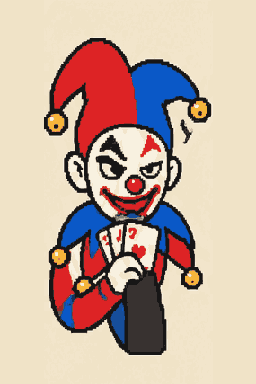
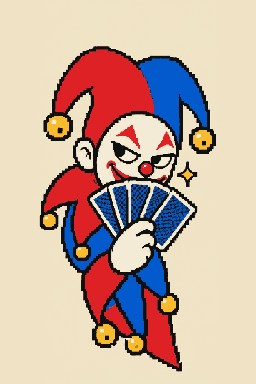
T-020 약삭빠른 조커 그림 교체 (조커 15종 모두 고해상도)

diff --git a/docs/progress.md b/docs/progress.md
@@ -110,6 +110,7 @@ npm run build      배포용 빌드 (dist/)
 | 2026-10-21 | T-027 | Claude | 카드 강화 8종 규칙과 강화 타로 8종. 점수 계산을 단계별 누적으로 바꿈(곱하기 단계). 행운과 유리는 판 시드 난수를 이어 씀. SAVE_VERSION 4. 화면은 다음 커밋 |
 | 2026-10-21 | T-027 | Claude | 강화 카드 화면(바탕색과 표시 글자, 돌 카드 전용 그림), 계산 과정에 x 표시. 브라우저에서 유리 x2와 손에 든 강철 x1.5 계산 확인 (D-016) |
 | 2026-10-21 | T-020 | 사용자, Claude | 미친 조커 그림 (1/5). 남은 것: crazy, droll, wily, clever |
-| 2026-10-21 | T-020 | 사용자, Claude | 나머지 4장은 사용자가 15칸 표 한 장(art/jokers/sheets/)으로 받아 아래 줄 칸을 잘라 2:3으로 맞춤. 칸 해상도가 낮다 (wily는 다시 그릴 후보) |
+| 2026-10-21 | T-020 | 사용자, Claude | 나머지 4장은 사용자가 15칸 표 한 장(art/jokers/sheets/)으로 받아 아래 줄 칸을 잘라 2:3으로 맞춤. 칸 해상도가 낮았다 (이후 모두 교체) |
 | 2026-10-21 | T-020 | 사용자, Claude | clever_joker를 한 장짜리 그림으로 교체 (잘린 구도와 낮은 해상도 해결) |
 | 2026-10-21 | T-020 | 사용자, Claude | crazy_joker, droll_joker를 세 칸 그림(art/jokers/sheets/sheet-2026-10-21-b.png)에서 잘라 교체. 왼쪽 칸은 mad_joker와 같은 소재라 쓰지 않음. wily_joker만 낮은 해상도로 남음 |
+| 2026-10-21 | T-020 | 사용자, Claude | wily_joker를 세 칸 그림(sheets/sheet-2026-10-21-d.png) 셋째 칸으로 교체. 소재(소매에서 같은 카드 세 장)와 완전히 같지는 않지만 표정이 맞아 채택. 표에서 자른 저해상도 그림은 이제 없음 |
